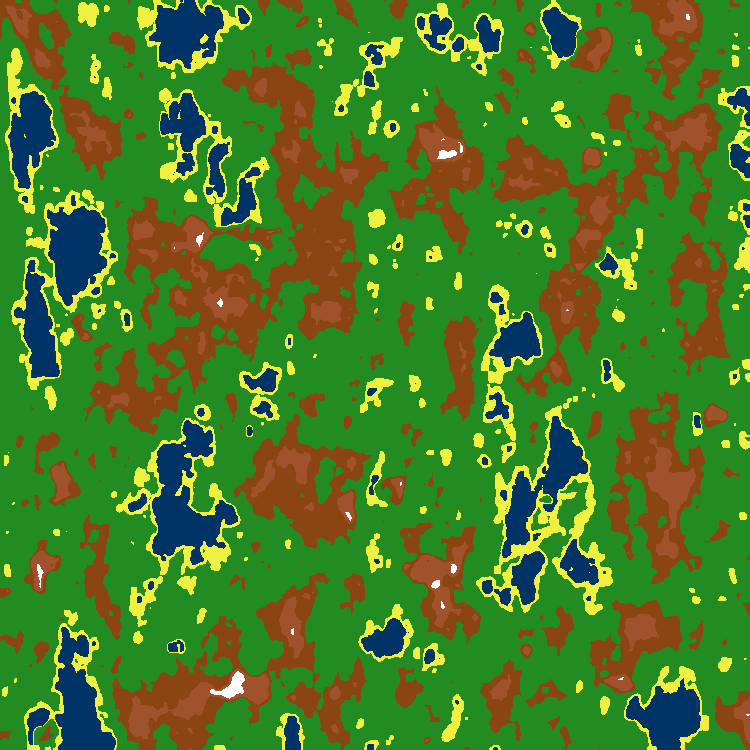
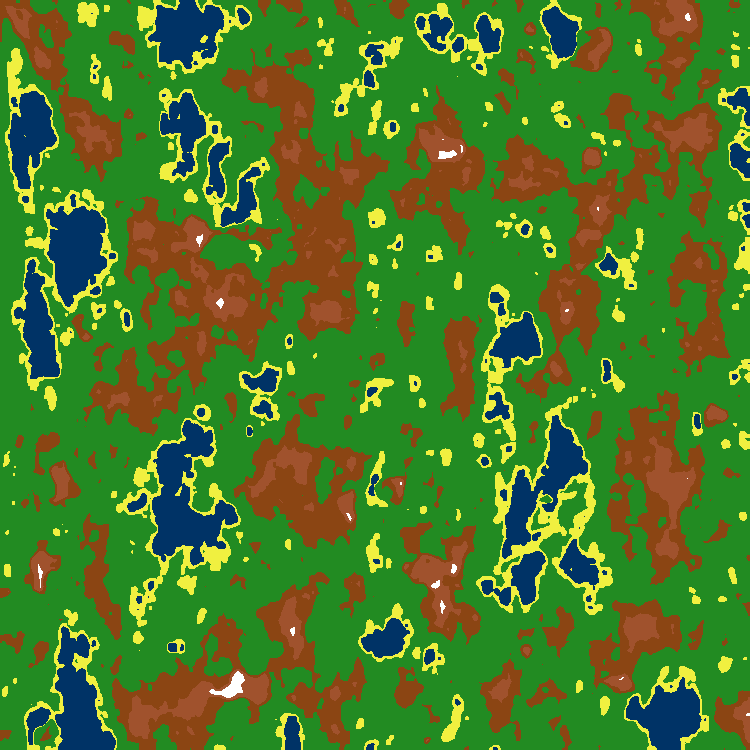
todo

Changed region(s): [[0.552, 0.2453, 0.5827, 0.276], [0.4293, 0.3067, 0.46, 0.3373], [0.276, 0.368, 0.3067, 0.3987]]

diff --git a/mapGeneration/main.py b/mapGeneration/main.py
@@ -6,7 +6,7 @@ from PIL import Image
 MAP_SIZE = 750 # 15 km
 CHUNKS = 16
 ITERATIONS = 3
-HEIGHT_RANGE = (-45, 22.5)  # Elevation range with more dramatic variation
+HEIGHT_RANGE = (-45, 27.5)  # Elevation range with more dramatic variation
 
 WATER_MERGE_THRESHOLD = 0.02
 FLAT_TERRAIN_MERGE_THRESHOLD = 0.0125
